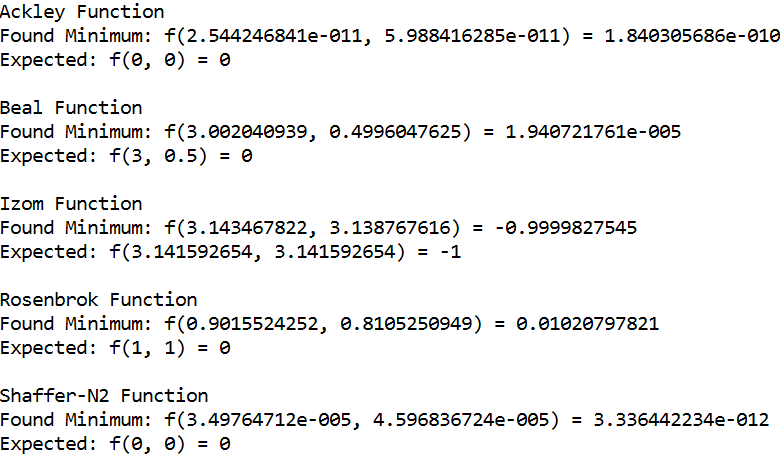
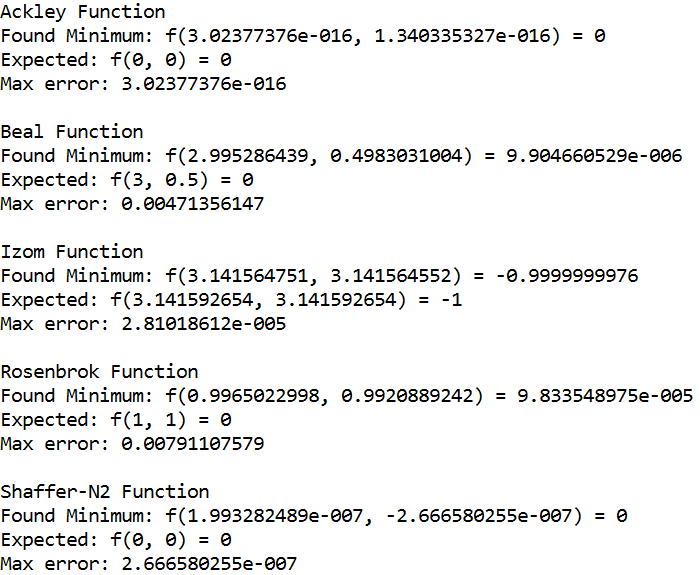
Update

diff --git a/Tests/MainTest.cpp b/Tests/MainTest.cpp
@@ -43,9 +43,11 @@ int main() {
         auto minimumValue = GA_A.searchMinimum(iterations);
         auto minimumPoint = GA_A.getArgumentsOfMinimumValue();
         std::cout << "Found Minimum: f(" << minimumPoint.first << ", " << minimumPoint.second << ") = "
-             << minimumValue << std::endl;
-        std::cout << "Expected: f(0, 0) = 0" << std::endl << std::endl;
-        
+                  << minimumValue << std::endl;
+        std::cout << "Expected: f(0, 0) = 0" << std::endl;
+        std::cout << "Max error: "
+                  << std::max(fabs(minimumValue), std::max(fabs(minimumPoint.first), fabs(minimumPoint.second)))
+                  << std::endl << std::endl;
     }
     GeneticAlgorithm<double>
         GA_B(numberOfPopulationMembers, percentOfBestOnesToLive, searchingSection, BealFunction, EPS);
@@ -54,8 +56,11 @@ int main() {
         auto minimumValue = GA_B.searchMinimum(iterations);
         auto minimumPoint = GA_B.getArgumentsOfMinimumValue();
         std::cout << "Found Minimum: f(" << minimumPoint.first << ", " << minimumPoint.second << ") = "
-             << minimumValue << std::endl;
-        std::cout << "Expected: f(3, 0.5) = 0" << std::endl << std::endl;
+                  << minimumValue << std::endl;
+        std::cout << "Expected: f(3, 0.5) = 0" << std::endl;
+        std::cout << "Max error: " << std::max(fabs(minimumValue),
+                                               std::max(fabs(3 - minimumPoint.first), fabs(0.5 - minimumPoint.second)))
+                  << std::endl << std::endl;
     }
     GeneticAlgorithm<double>
         GA_I(numberOfPopulationMembers, percentOfBestOnesToLive, searchingSection, IzomFunction, EPS);
@@ -64,8 +69,11 @@ int main() {
         auto minimumValue = GA_I.searchMinimum(iterations);
         auto minimumPoint = GA_I.getArgumentsOfMinimumValue();
         std::cout << "Found Minimum: f(" << minimumPoint.first << ", " << minimumPoint.second << ") = "
-             << minimumValue << std::endl;
-        std::cout << "Expected: f(" << M_PI << ", " << M_PI << ") = -1" << std::endl << std::endl;
+                  << minimumValue << std::endl;
+        std::cout << "Expected: f(" << M_PI << ", " << M_PI << ") = -1" << std::endl;
+        std::cout << "Max error: " << std::max(fabs(-1 - minimumValue),
+                                               std::max(fabs(M_PI - minimumPoint.first),
+                                                        fabs(M_PI - minimumPoint.second))) << std::endl << std::endl;
     }
     GeneticAlgorithm<double>
         GA_R(numberOfPopulationMembers, percentOfBestOnesToLive, searchingSection, RosenbrokFunction, EPS);
@@ -74,8 +82,11 @@ int main() {
         auto minimumValue = GA_R.searchMinimum(iterations);
         auto minimumPoint = GA_R.getArgumentsOfMinimumValue();
         std::cout << "Found Minimum: f(" << minimumPoint.first << ", " << minimumPoint.second << ") = "
-             << minimumValue << std::endl;
-        std::cout << "Expected: f(1, 1) = 0" << std::endl << std::endl;
+                  << minimumValue << std::endl;
+        std::cout << "Expected: f(1, 1) = 0" << std::endl;
+        std::cout << "Max error: "
+                  << std::max(fabs(minimumValue), std::max(fabs(1 - minimumPoint.first), fabs(1 - minimumPoint.second)))
+                  << std::endl << std::endl;
     }
     GeneticAlgorithm<double>
         GA_S(numberOfPopulationMembers, percentOfBestOnesToLive, searchingSection, ShafferN2Function, EPS);
@@ -84,8 +95,10 @@ int main() {
         auto minimumValue = GA_S.searchMinimum(iterations);
         auto minimumPoint = GA_S.getArgumentsOfMinimumValue();
         std::cout << "Found Minimum: f(" << minimumPoint.first << ", " << minimumPoint.second << ") = "
-             << minimumValue << std::endl;
-        std::cout << "Expected: f(0, 0) = 0" << std::endl << std::endl;
+                  << minimumValue << std::endl;
+        std::cout << "Expected: f(0, 0) = 0" << std::endl;
+        std::cout << "Max error: "
+                  << std::max(fabs(minimumValue), std::max(fabs(minimumPoint.first), fabs(minimumPoint.second)))
+                  << std::endl << std::endl;
     }
 }
-
